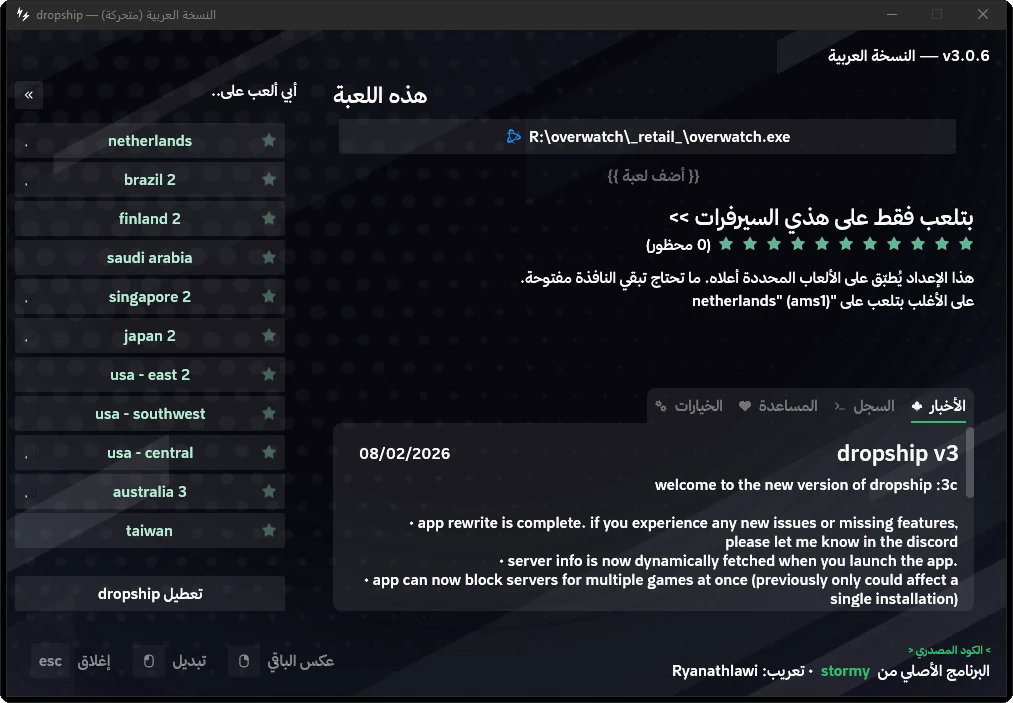
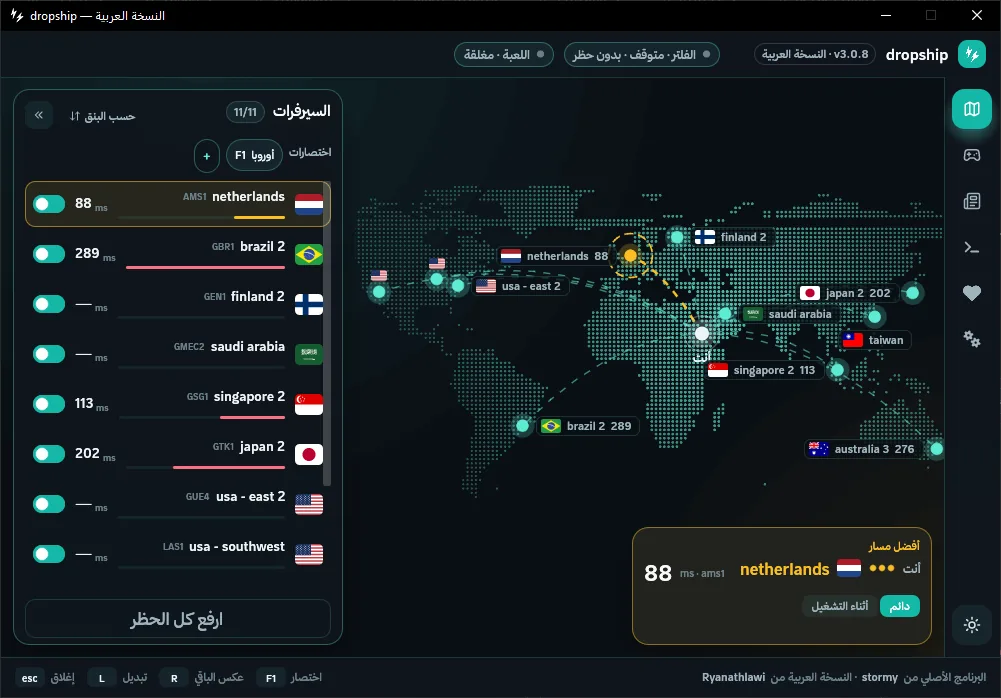
gallery: real screenshots of the Arabic launcher (v3.1.0) and presets; playground notes updated

diff --git a/src/i18n.ts b/src/i18n.ts
@@ -75,9 +75,9 @@ export const en = {
       "A working replica of the dropship window. Block servers, switch tabs, change the theme and language, collapse it. Nothing is installed and nothing is sent anywhere.",
     tip: "Left click blocks or allows a server. Right click keeps that server and flips all the others, exactly like the app.",
     before: "How it was",
-    after: "How it's becoming",
-    beforeNote: "The current interface, as shipped today.",
-    afterNote: "The proposed new interface for the Arabic edition: a launcher with a living world map. An interactive concept; it will change.",
+    after: "How it is now",
+    beforeNote: "The original interface, still what the English build ships.",
+    afterNote: "The Arabic edition's new interface, shipped in v3.1.0: a launcher with a living world map, flags and blocking presets. An interactive replica; the real one is a download away.",
   },
   stats: {
     downloads: "Downloads",
@@ -163,10 +163,11 @@ export const en = {
     items: [
       { key: "en-expanded", label: "Expanded", caption: "The main window: your game, the server list and the tabs." },
       { key: "en-collapsed", label: "Collapsed", caption: "Collapsed mode keeps only the server list on screen." },
-      { key: "ar-main-dark", label: "Arabic · dark", caption: "The Arabic build with a mirrored right-to-left layout." },
+      { key: "ar-main-dark", label: "Arabic · dark", caption: "The Arabic edition's launcher: a live world map with routes from you to every allowed server, flags, and a best-route card." },
       { key: "ar-main-light", label: "Arabic · light", caption: "Light theme, same layout." },
+      { key: "ar-presets", label: "Presets", caption: "Blocking presets: one click or a hotkey applies a set of blocked servers; make your own in two steps." },
       { key: "ar-tour", label: "Guided tour", caption: "The onboarding tour dims the window and explains each panel." },
-      { key: "ar-tabs", label: "Options", caption: "Zoom, theme, language and firewall tools in the options tab." },
+      { key: "ar-tabs", label: "Options", caption: "Zoom, theme and firewall tools in the options panel, floating over the map." },
     ],
   },
   faq: {
@@ -328,8 +329,8 @@ export const ar: Dict = {
     tip: "الضغطة اليسرى تحظر السيرفر أو تسمح به. الضغطة اليمنى تبقي هذا السيرفر وتعكس كل الباقي، بالضبط مثل البرنامج.",
     before: "كيف كان",
     after: "كيف صار",
-    beforeNote: "الواجهة الحالية كما هي في البرنامج اليوم.",
-    afterNote: "الواجهة الجديدة المقترحة للنسخة العربية: لانشر بخريطة عالم حيّة. تصميم تفاعلي أولي، وبيتغير.",
+    beforeNote: "الواجهة الأصلية، وما تزال في النسخة الإنجليزية.",
+    afterNote: "الواجهة الجديدة للنسخة العربية كما صدرت في الإصدار 3.1.0: لانشر بخريطة عالم حيّة وأعلام واختصارات حظر. نسخة تفاعلية، والحقيقية على بُعد تحميل.",
   },
   stats: {
     downloads: "تحميل",
@@ -415,10 +416,11 @@ export const ar: Dict = {
     items: [
       { key: "en-expanded", label: "الوضع الكامل", caption: "النافذة الرئيسية: لعبتك، قائمة السيرفرات، والتبويبات." },
       { key: "en-collapsed", label: "الوضع المصغّر", caption: "الوضع المصغّر يبقي قائمة السيرفرات فقط على الشاشة." },
-      { key: "ar-main-dark", label: "عربي · داكن", caption: "النسخة العربية بتخطيط معكوس من اليمين لليسار." },
+      { key: "ar-main-dark", label: "عربي · داكن", caption: "لانشر النسخة العربية: خريطة عالم حيّة بمسارات منك إلى كل سيرفر مسموح، أعلام، وبطاقة أفضل مسار." },
       { key: "ar-main-light", label: "عربي · فاتح", caption: "المظهر الفاتح، نفس التخطيط." },
+      { key: "ar-presets", label: "الاختصارات", caption: "اختصارات الحظر: ضغطة أو مفتاح يطبّق مجموعة سيرفرات محظورة، وتنشئ اختصارك بخطوتين." },
       { key: "ar-tour", label: "الجولة التعريفية", caption: "الجولة تعتّم النافذة وتشرح كل جزء على حدة." },
-      { key: "ar-tabs", label: "الخيارات", caption: "التكبير والمظهر واللغة وأدوات الجدار الناري في تبويب الخيارات." },
+      { key: "ar-tabs", label: "الخيارات", caption: "التكبير والمظهر وأدوات الجدار الناري في لوحة الخيارات فوق الخريطة." },
     ],
   },
   faq: {
